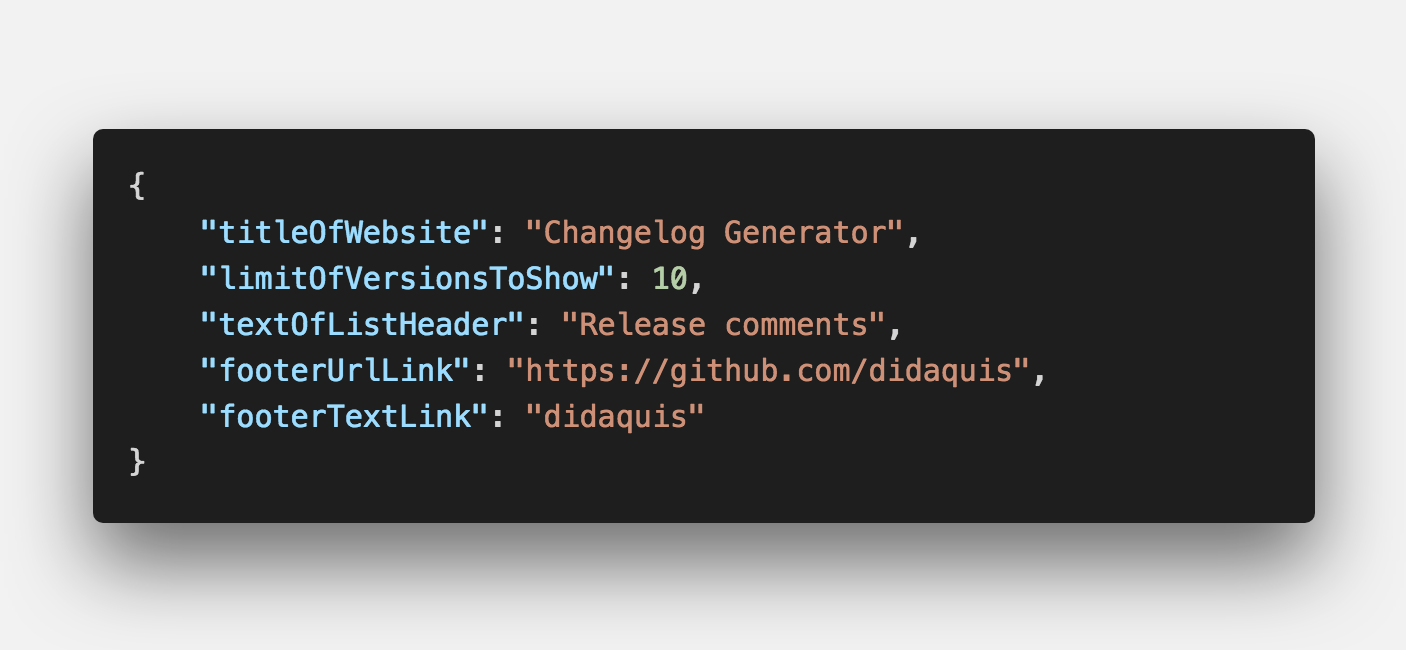
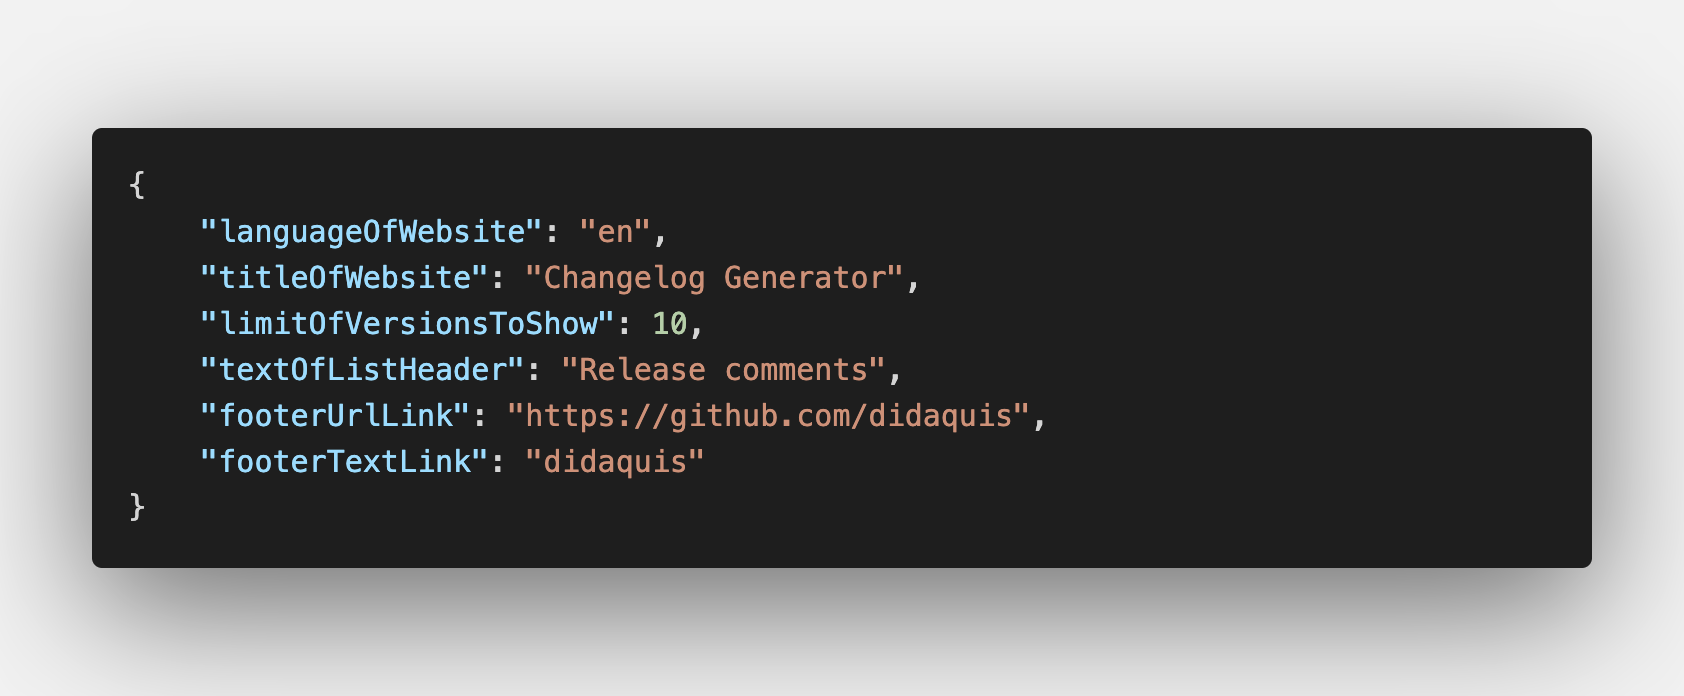
Added the possibility to define the language of content

Changed region(s): [[0.1223, 0.3077, 0.734, 0.6769], [0.0306, 0.1846, 0.9481, 0.8308]]

diff --git a/pages/_document.js b/pages/_document.js
@@ -1,8 +1,9 @@
 import { Html, Head, Main, NextScript } from 'next/document'
+import configuration from '../data/configuration.json'
 
 export default function Document () {
 	return (
-		<Html>
+		<Html lang={configuration.languageOfWebsite}>
 			<Head>
 				<link href="/vendor/bootstrap/css/bootstrap.min.css" rel="stylesheet" />
 				<link href="/styles/print-styles.css" rel="stylesheet" />

diff --git a/pages/_app.js b/pages/_app.js
@@ -1,7 +1,7 @@
 import Head from 'next/head'
 import configuration from '../data/configuration.json'
 
-function MyApp({ Component, pageProps }) {
+function MyApp ({ Component, pageProps }) {
 	return (
 		<>
 			<Head>

diff --git a/README.md b/README.md
@@ -27,7 +27,7 @@ Clone or download this repository and then install the dependencies: `npm instal
 All configuration and data is obtained from JSON files. 
 To add data that will be part of the changelog you must edit the file located in the directory `data/changelog.json`.  
 
-![Preview](./docs-assets/data.png) 
+![Preview](./docs-assets/changelog.png) 
 
 ```
 💡 TIP! 
@@ -41,6 +41,7 @@ You should also edit the configuration file located in the directory `data/confi
 ![Preview](./docs-assets/configuration.png) 
 
 **Parameters to configure:** 
+* `languageOfWebsite` => Set the language of website content (optional). Examples: `es` for spanish, or `en` for english.
 * `titleOfWebsite` => Set the page title (optional)
 * `limitOfVersionsToShow` => Set the number of versions to be displayed (starting at the top of JSON file. Default value is 10)
 * `textOfListHeader` => Set the title of the lists (optional)
@@ -49,7 +50,7 @@ You should also edit the configuration file located in the directory `data/confi
 
 You can run the command `npm run dev` to view the changes in live on `http://localhost:3000`.
 
-After edit both JSON files, you are ready to publish.
+After edit both JSON files, you are ready to publish your website.
 
 
 ### 🚀 Publish
